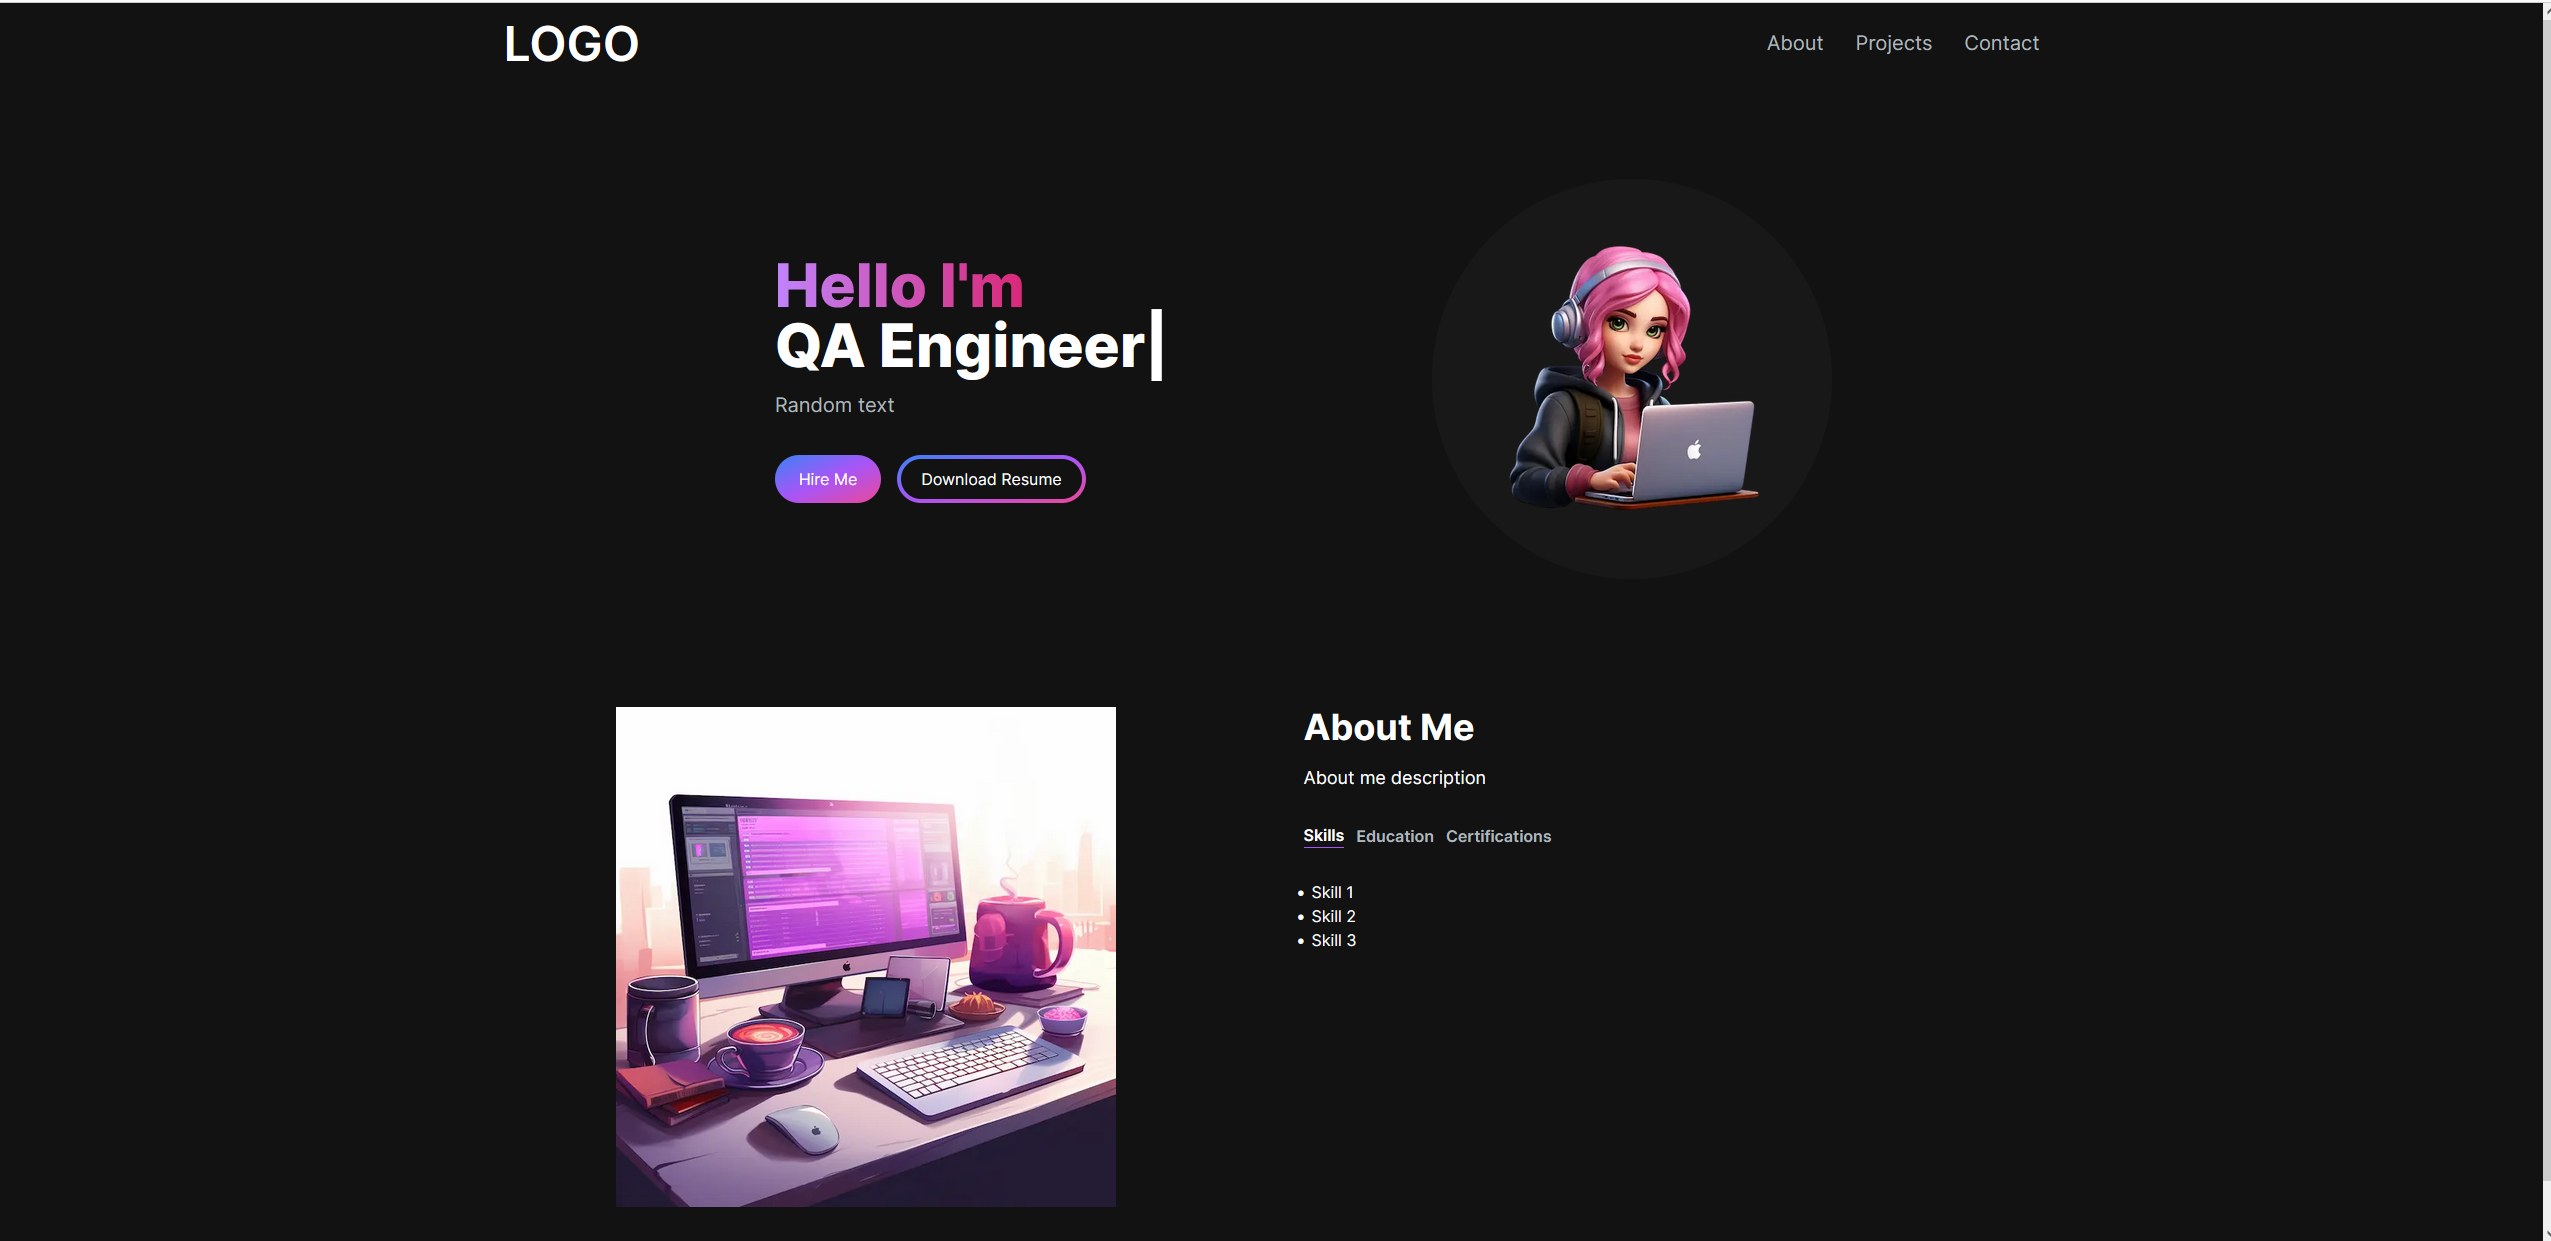
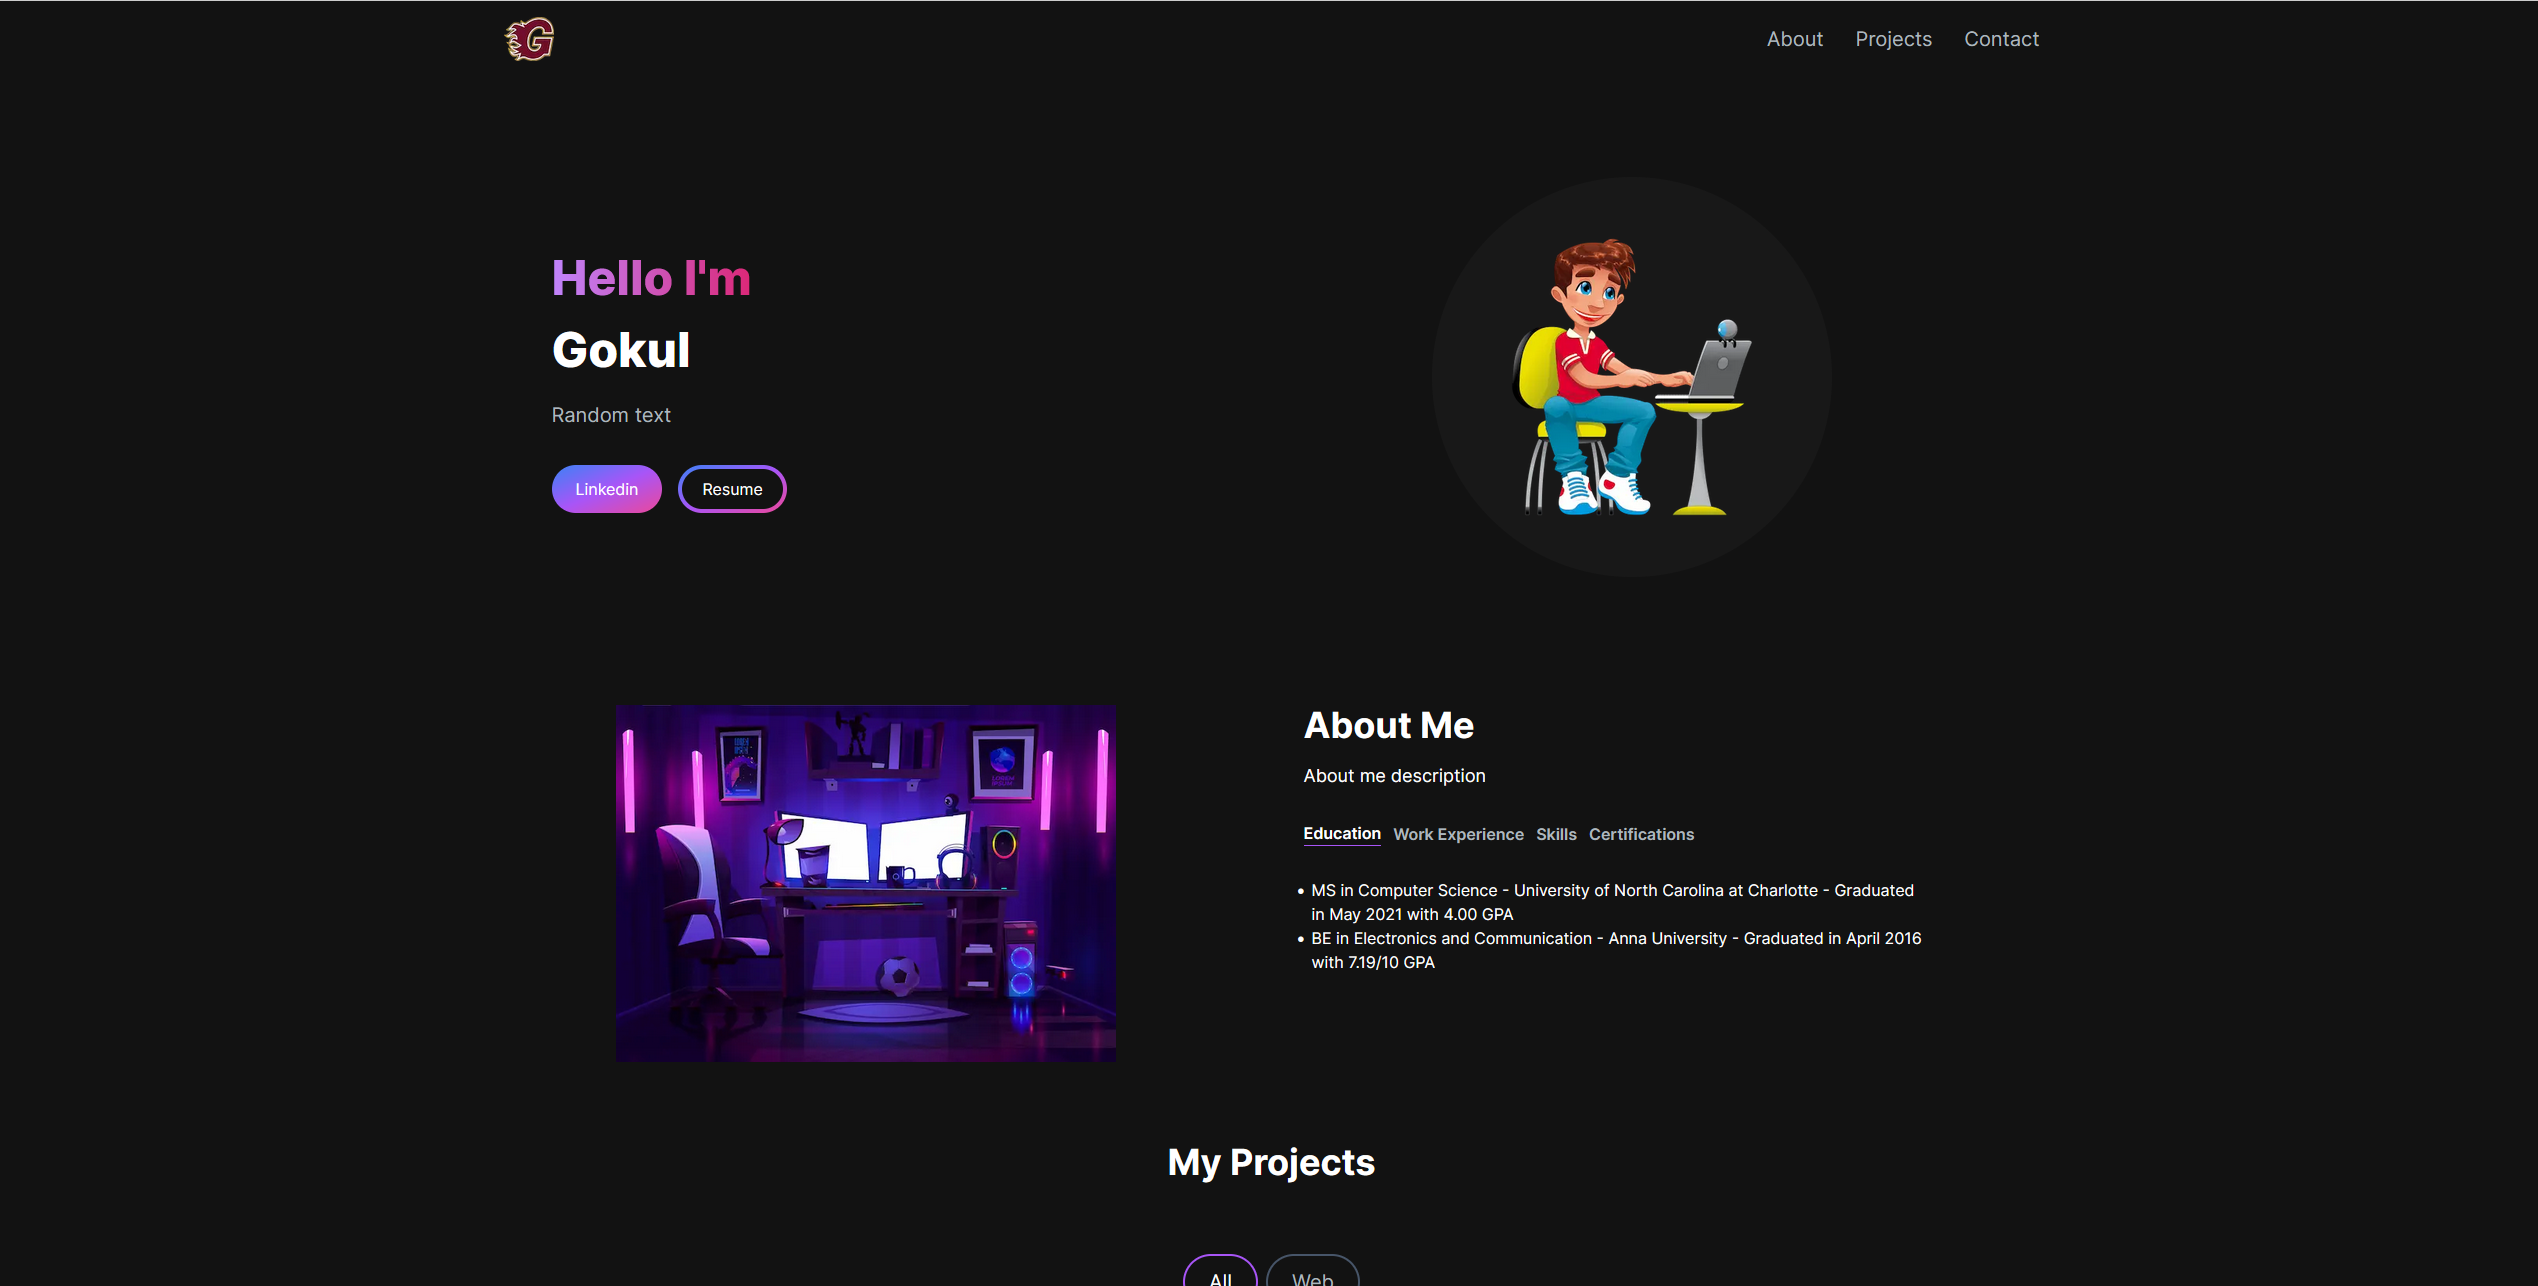
Portfolio Commit 6

diff --git a/src/app/components/ProjectsSection.jsx b/src/app/components/ProjectsSection.jsx
@@ -7,28 +7,74 @@ const projectsData = [
   {
     id: 1,
     title: "React Portfolio Website",
-    description: "Project 1 Description",
+    // description: "Project 1 Description",
     image: "/images/projects/portfolio.png",
-    tag: ["All"],
-    gitUrl: "/",
+    tag: ["All", "Angular/React"],
+    gitUrl: "https://github.com/gokulthegr8/portfolio",
     previewUrl: "/",
   },
   {
     id: 2,
     title: "Covid-19 Tracker Application",
-    description: "Project 2 Description",
+    // description: "Project 2 Description",
     image: "/images/projects/covid19tracker.png",
-    tag: ["All", "Web"],
-    gitUrl: "/",
-    previewUrl: "/",
+    tag: ["All", "Angular/React"],
+    gitUrl: "https://github.com/gokulthegr8/Gokul-CovidTracker-React",
+    previewUrl: "https://goku-covid19tracker.web.app/",
   },
   {
     id: 3,
-    title: "Random App",
-    description: "Project 3 Description",
-    image: "/images/projects/covid19tracker.png",
-    tag: ["All", "Web"],
-    gitUrl: "/",
+    title: "Blood Bank Application",
+    // description: "Project 3 Description",
+    image: "/images/projects/bloodbankapp.png",
+    tag: ["All", "Angular/React"],
+    gitUrl: "https://github.com/gokulthegr8/BloodBank-Application-Angular",
+    previewUrl: "/",
+  },
+  {
+    id: 4,
+    title: "GameMaker Project - Puzzle Game",
+    // description: "Project 4 Description",
+    image: "/images/projects/PuzzleGame.png",
+    tag: ["All", "Game"],
+    gitUrl: "https://github.com/gokulthegr8/GameMakerProject2",
+    previewUrl:
+      "https://drive.google.com/file/d/10EgRO2DbUXxlDJl1Blxa62wsKWrKJUQc/view",
+  },
+  {
+    id: 5,
+    title: "GameMaker Project - Action Game",
+    // description: "Project 5 Description",
+    image: "/images/projects/ActionGame.png",
+    tag: ["All", "Game"],
+    gitUrl: "https://github.com/gokulthegr8/GameMakerProject1",
+    previewUrl: "https://youtu.be/ddKgUEweTzY?si=1Ij_yEFYFwVQ0nEE",
+  },
+  {
+    id: 6,
+    title: "Sorting Algorithms",
+    // description: "Project 6 Description",
+    image: "/images/projects/SortingAlgos.png",
+    tag: ["All"],
+    gitUrl: "https://github.com/gokulthegr8/Sorting-Algorithms",
+    previewUrl: "/",
+  },
+  {
+    id: 7,
+    title: "Android - Task Application",
+    // description: "Project 7 Description",
+    image: "/images/projects/AndroidTaskApp.png",
+    tag: ["All", "Android"],
+    gitUrl: "https://github.com/gokulthegr8/Task-Android-Application",
+    previewUrl: "/",
+  },
+  {
+    id: 8,
+    title: "Android - Contacts Application",
+    // description: "Project 8 Description",
+    image: "/images/projects/AndroidContactsApp.png",
+    tag: ["All", "Android"],
+    gitUrl: "https://github.com/gokulthegr8/Contacts-Android-Application",
     previewUrl: "/",
   },
 ];
@@ -59,8 +105,18 @@ const ProjectsSection = () => {
         />
         <ProjectTag
           onClick={handleTagChange}
-          name="Web"
-          isSelected={tag === "Web"}
+          name="Angular/React"
+          isSelected={tag === "Angular/React"}
+        />
+        <ProjectTag
+          onClick={handleTagChange}
+          name="Game"
+          isSelected={tag === "Game"}
+        />
+        <ProjectTag
+          onClick={handleTagChange}
+          name="Android"
+          isSelected={tag === "Android"}
         />
       </div>
       <ul ref={ref} className="grid md:grid-cols-3 gap-8 md:gap-12">
@@ -70,7 +126,7 @@ const ProjectsSection = () => {
             variants={cardVariants}
             initial="initial"
             animate={isInView ? "animate" : "initial "}
-            transition={{ duration: 3, delay: index * 0.7 }}
+            transition={{ duration: 0.5, delay: index * 0.5 }}
           >
             <ProjectCard
               key={project.id}

diff --git a/src/app/components/ProjectCard.jsx b/src/app/components/ProjectCard.jsx
@@ -11,12 +11,16 @@ const ProjectCard = ({ imgUrl, title, description, gitUrl, previewUrl }) => {
         <div className="overlay items-center justify-center absolute top-0 left-0 w-full h-full bg-[#181818] bg-opacity-0 hidden group-hover:flex group-hover:bg-opacity-80 transition-all duration-500">
           <Link
             href={gitUrl}
+            target="_blank"
+            rel="noopener noreferrer"
             className="h-14 w-14 mr-2 border-2 relative rounded-full border-[#ADB7BE] hover:border-white group/link"
           >
             <CodeBracketIcon className="h-10 w-10 text-[#ADB7BE] absolute top-1/2 left-1/2 transform -translate-x-1/2 -translate-y-1/2 cursor-pointer group-hover/link:text-white" />
           </Link>
           <Link
             href={previewUrl}
+            target="_blank"
+            rel="noopener noreferrer"
             className="h-14 w-14 border-2 relative rounded-full border-[#ADB7BE] hover:border-white group/link"
           >
             <EyeIcon className="h-10 w-10 text-[#ADB7BE] absolute top-1/2 left-1/2 transform -translate-x-1/2 -translate-y-1/2 cursor-pointer group-hover/link:text-white" />

diff --git a/src/app/components/AboutSection.jsx b/src/app/components/AboutSection.jsx
@@ -195,7 +195,12 @@ const AboutSection = () => {
         <Image src="/images/about-me-image.jpg" width={500} height={500} />
         <div className="mt-4 md:mt-0 text-left flex flex-col h-full">
           <h2 className="text-4xl font-bold text-white mb-4">About Me</h2>
-          <p className="text-base lg:text-lg">About me description</p>
+          <p className="text-base lg:text-lg">
+            I am a Software Engineer with 6+ years of experience in Software
+            Testing and Automation. I am very passionate about coding and would
+            like to bring my quality mindset into Software Development. I am
+            also a certified Scrum Master who is familiar with Agile workflows.{" "}
+          </p>
           <div className="flex flex-row justify-start mt-8">
             <TabButton
               selectTab={() => handleTabChange("education")}

diff --git a/src/app/components/HeroSection.jsx b/src/app/components/HeroSection.jsx
@@ -38,7 +38,9 @@ const HeroSection = () => {
             />
           </h1>
           <p className="text-[#ADB7BE] text-base sm:text-lg lg:text-xl mb-6">
-            Random text
+            Software Engineer in Test @Oracle | UNC Charlotte Graduate Student |
+            Former QA Analyst Intern @PlayStation | Former Software Engineer
+            @Wipro Limited
           </p>
           <div>
             <Link
